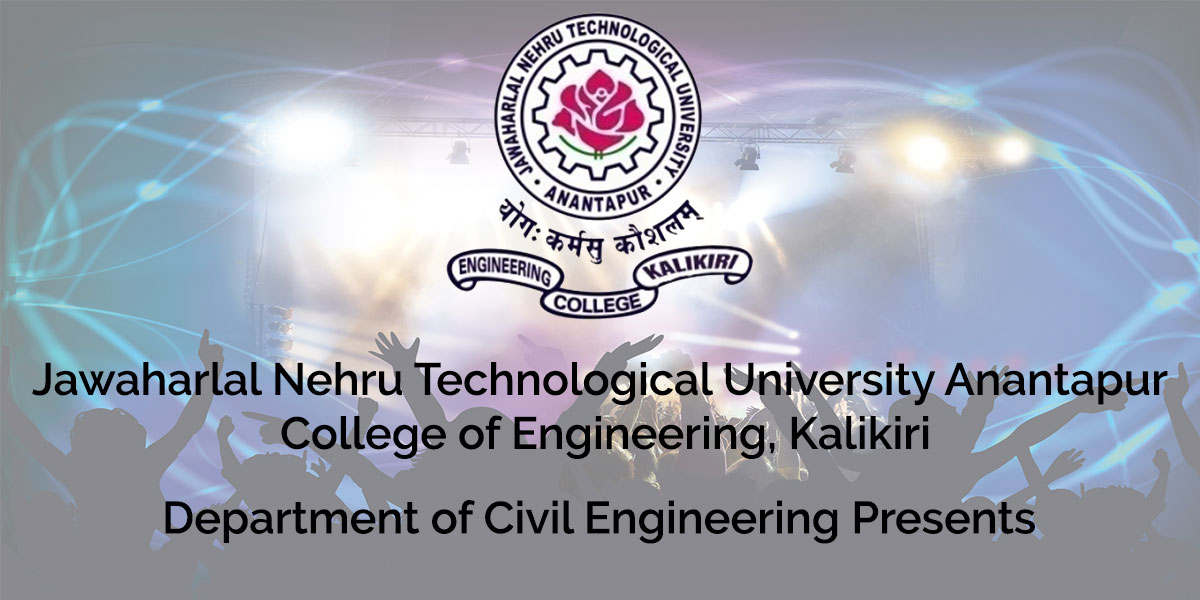
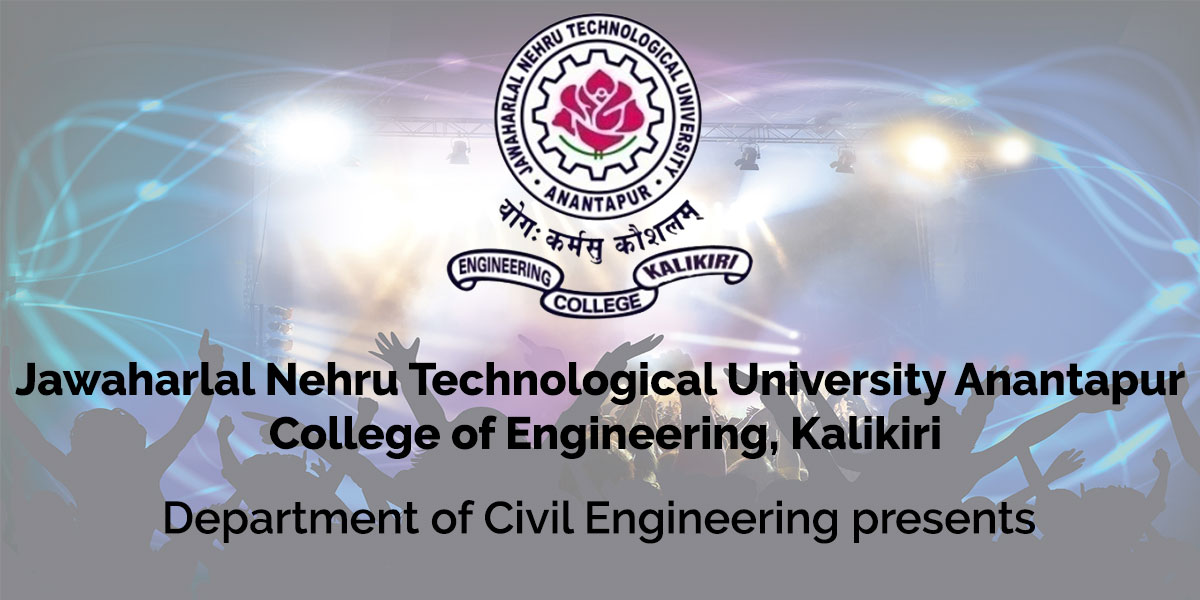
added popout

Changed region(s): [[0.0, 0.6, 0.9867, 0.78], [0.7092, 0.84, 0.74, 0.9]]

diff --git a/css/style.css b/css/style.css
@@ -1675,6 +1675,9 @@ body.header-fixed.headroom--not-top {
 	float: left;
 	margin: 34px 0;
 }
+.contacth2{
+	text-align: center;
+}
 .page-title .buttons {
 	float: right;
 	margin-top: 40px;
